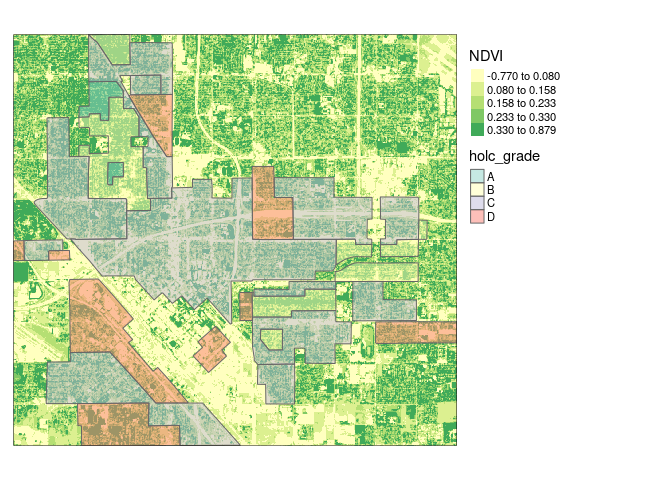
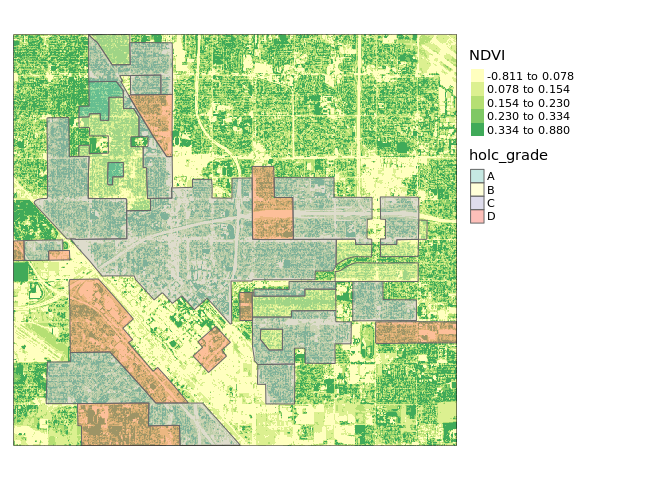
final 1

diff --git a/assignment/spatial-assignment.md b/assignment/spatial-assignment.md
@@ -14,32 +14,30 @@ Create the Environment before starting:
 
     ## terra 1.7.55
 
-    ## ── Attaching core tidyverse packages ──────────────────────── tidyverse 2.0.0 ──
-    ## ✔ dplyr     1.1.3     ✔ readr     2.1.4
-    ## ✔ forcats   1.0.0     ✔ stringr   1.5.0
-    ## ✔ ggplot2   3.4.4     ✔ tibble    3.2.1
-    ## ✔ lubridate 1.9.3     ✔ tidyr     1.3.0
-    ## ✔ purrr     1.0.2     
+    ## ── Attaching packages ─────────────────────────────────────── tidyverse 1.3.0 ──
+
+    ## ✔ ggplot2 3.4.4     ✔ purrr   1.0.2
+    ## ✔ tibble  3.2.1     ✔ dplyr   1.1.3
+    ## ✔ tidyr   1.3.0     ✔ stringr 1.5.0
+    ## ✔ readr   2.1.4     ✔ forcats 1.0.0
+
     ## ── Conflicts ────────────────────────────────────────── tidyverse_conflicts() ──
     ## ✖ tidyr::extract() masks terra::extract()
     ## ✖ dplyr::filter()  masks stats::filter()
     ## ✖ dplyr::lag()     masks stats::lag()
-    ## ℹ Use the conflicted package (<http://conflicted.r-lib.org/>) to force all conflicts to become errors
-    ## Linking to GEOS 3.8.0, GDAL 3.0.4, PROJ 6.3.1; sf_use_s2() is TRUE
-    ## 
+
+    ## Linking to GEOS 3.10.2, GDAL 3.4.1, PROJ 8.2.1; sf_use_s2() is TRUE
+
     ## 
     ## Attaching package: 'gdalcubes'
-    ## 
-    ## 
+
     ## The following objects are masked from 'package:terra':
     ## 
     ##     animate, crop, size
-    ## 
-    ## 
+
     ## 
     ## Attaching package: 'jsonlite'
-    ## 
-    ## 
+
     ## The following object is masked from 'package:purrr':
     ## 
     ##     flatten
@@ -187,16 +185,16 @@ ave_ndvi
     ## # A tibble: 97 × 3
     ##      FID time        NDVI
     ##    <int> <chr>      <dbl>
-    ##  1     1 2022-06-01 0.308
+    ##  1     1 2022-06-01 0.309
     ##  2     2 2022-06-01 0.411
-    ##  3     3 2022-06-01 0.385
+    ##  3     3 2022-06-01 0.388
     ##  4     4 2022-06-01 0.254
-    ##  5     5 2022-06-01 0.298
-    ##  6     6 2022-06-01 0.386
+    ##  5     5 2022-06-01 0.299
+    ##  6     6 2022-06-01 0.390
     ##  7     7 2022-06-01 0.302
     ##  8     8 2022-06-01 0.239
     ##  9     9 2022-06-01 0.310
-    ## 10    10 2022-06-01 0.282
+    ## 10    10 2022-06-01 0.283
     ## # ℹ 87 more rows
 
 ``` r
@@ -205,8 +203,8 @@ ndvi2
 
     ## stars object with 3 dimensions and 1 attribute
     ## attribute(s):
-    ##             Min.    1st Qu.   Median      Mean   3rd Qu.      Max. NA's
-    ## NDVI  -0.8634314 0.02882406 0.114758 0.1527623 0.2857621 0.9341222   44
+    ##            Min.    1st Qu.    Median      Mean   3rd Qu.      Max. NA's
+    ## NDVI  -0.867543 0.02683389 0.1114082 0.1533023 0.2895219 0.9340307   44
     ## dimension(s):
     ##      from   to offset      delta  refsys point                  values x/y
     ## x       1 1000 -122.5  0.0001474  WGS 84    NA                    NULL [x]
@@ -262,16 +260,16 @@ ave_ndvi |> as_tibble()
     ## # A tibble: 97 × 3
     ##      FID time        NDVI
     ##    <int> <chr>      <dbl>
-    ##  1     1 2022-06-01 0.308
+    ##  1     1 2022-06-01 0.309
     ##  2     2 2022-06-01 0.411
-    ##  3     3 2022-06-01 0.385
+    ##  3     3 2022-06-01 0.388
     ##  4     4 2022-06-01 0.254
-    ##  5     5 2022-06-01 0.298
-    ##  6     6 2022-06-01 0.386
+    ##  5     5 2022-06-01 0.299
+    ##  6     6 2022-06-01 0.390
     ##  7     7 2022-06-01 0.302
     ##  8     8 2022-06-01 0.239
     ##  9     9 2022-06-01 0.310
-    ## 10    10 2022-06-01 0.282
+    ## 10    10 2022-06-01 0.283
     ## # ℹ 87 more rows
 
 ``` r
@@ -317,10 +315,10 @@ ndvi_poly |> as_tibble() |>
     ## # A tibble: 4 × 2
     ##   holc_grade mean_NDVI
     ##   <chr>          <dbl>
-    ## 1 A              0.315
+    ## 1 A              0.316
     ## 2 B              0.210
-    ## 3 C              0.192
-    ## 4 D              0.191
+    ## 3 C              0.194
+    ## 4 D              0.193
 
 ## Fresno as Comparison
 
@@ -389,16 +387,16 @@ fs_ave_ndvi |> as_tibble()
     ## # A tibble: 24 × 3
     ##      FID time        NDVI
     ##    <int> <chr>      <dbl>
-    ##  1     1 2022-06-01 0.399
+    ##  1     1 2022-06-01 0.400
     ##  2     2 2022-06-01 0.391
-    ##  3     3 2022-06-01 0.416
+    ##  3     3 2022-06-01 0.417
     ##  4     4 2022-06-01 0.307
-    ##  5     5 2022-06-01 0.249
+    ##  5     5 2022-06-01 0.250
     ##  6     6 2022-06-01 0.340
-    ##  7     7 2022-06-01 0.257
-    ##  8     8 2022-06-01 0.254
+    ##  7     7 2022-06-01 0.256
+    ##  8     8 2022-06-01 0.255
     ##  9     9 2022-06-01 0.262
-    ## 10    10 2022-06-01 0.245
+    ## 10    10 2022-06-01 0.246
     ## # ℹ 14 more rows
 
 ``` r
@@ -432,9 +430,9 @@ ndvi_poly2 |> as_tibble() |>
     ## # A tibble: 4 × 2
     ##   holc_grade mean_NDVI
     ##   <chr>          <dbl>
-    ## 1 A              0.395
+    ## 1 A              0.396
     ## 2 B              0.314
-    ## 3 C              0.228
+    ## 3 C              0.229
     ## 4 D              0.207
 
 Fresno is a famous agricultural city, and during the planting period, we
@@ -445,11 +443,9 @@ Redlining was located, was significantly lower. These two very different
 cities collectively suggest that NDVI provides evidence of social
 injustic impact of historical racism practices like Redlining.
 
-# Exercise 3:
+# **4. Conclusion**
 
-**Explain why considering systematic inequity and racism is important in
-the context of global change and developing solutions to the
-biodiversity crisis.**
+#### **Explain why considering systematic inequity and racism is important in the context of global change and developing solutions to the biodiversity crisis.**
 
 Considering the systematic inequality helps inform a more comprehensive
 understanding on the historical background of many environmental crisis
